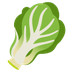
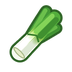
ふといながねぎの食材アイコンを自作アイコンへ変更
- tools/food-icons/make.py に draw_leek() を追加し、Noto Emoji の青菜(🥬)から自作の長ネギアイコンへ差し替え
- crates/pokesle-app/assets/food/largeleek.png を再生成
- crates/pokesle-app/assets/food/README.md のライセンス一覧に largeleek.png (MIT) を追記

diff --git a/tools/food-icons/make.py b/tools/food-icons/make.py
@@ -22,7 +22,7 @@ OUT = pathlib.Path(__file__).resolve().parents[2] / "crates" / "pokesle-app" / "
 
 # 本家の画像名 → Noto のコードポイント、または自作("draw:...")
 MAPPING = {
-    "largeleek.png": "1f96c",            # ふといながねぎ: 🥬
+    "largeleek.png": "draw:leek",         # ふといながねぎ: 自作
     "tastymushroom.png": "1f344_200d_1f7eb",  # あじわいキノコ: 🍄🟫
     "fancyegg.png": "white:1f95a",       # とくせんエッグ: 🥚 を白く塗り替え
     "softpotato.png": "1f954",           # ほっこりポテト: 🥔
@@ -242,6 +242,130 @@ def draw_nuts() -> Image.Image:
     return im.resize((128, 128), Image.LANCZOS)
 
 
+def draw_leek() -> Image.Image:
+    """ふといながねぎの自作アイコン(斜め配置、白い茎＋分かれた緑の葉)"""
+    im = Image.new("RGBA", (128 * S, 128 * S), (0, 0, 0, 0))
+    d = ImageDraw.Draw(im)
+    outline = (42, 94, 34)
+
+    ux, uy = 1.0 / math.sqrt(2.0), -1.0 / math.sqrt(2.0)  # 左下→右上
+    vx, vy = -1.0 / math.sqrt(2.0), -1.0 / math.sqrt(2.0)  # 左上(幅方向)
+    bx, by = 27.0, 101.0  # 根元
+
+    def pt(along: float, across: float) -> tuple[float, float]:
+        return bx + ux * along + vx * across, by + uy * along + vy * across
+
+    def stroke(fn, n, color_fn, r_fn):
+        for i in range(n + 1):
+            t = i / n
+            cx, cy = fn(t)
+            r = r_fn(t) * S
+            d.ellipse([cx * S - r, cy * S - r, cx * S + r, cy * S + r], fill=color_fn(t))
+
+    def lerp_rgb(c1, c2, k):
+        k = max(0.0, min(1.0, k))
+        return tuple(int(c1[i] + (c2[i] - c1[i]) * k) for i in range(3))
+
+    def main_pt(t):
+        return pt(12.0 + 86.0 * t, 0.0)
+
+    def main_r(t):
+        return 14.5 - 3.5 * t
+
+    def upper_leaf_pt(t):
+        return pt(42.0 + 54.0 * t, 3.0 + 15.0 * (t ** 0.9))
+
+    def upper_leaf_r(t):
+        return 9.5 - 2.2 * t
+
+    def lower_leaf_pt(t):
+        return pt(48.0 + 40.0 * t, -3.0 - 13.0 * (t ** 0.9))
+
+    def lower_leaf_r(t):
+        return 8.5 - 2.0 * t
+
+    # 1. 全体の縁取り
+    stroke(upper_leaf_pt, 80, lambda _: outline, lambda t: upper_leaf_r(t) + 3.8)
+    stroke(lower_leaf_pt, 70, lambda _: outline, lambda t: lower_leaf_r(t) + 3.8)
+    stroke(main_pt, 120, lambda _: outline, lambda t: main_r(t) + 3.8)
+
+    # 2. 奥側・手前側の分かれた葉
+    stroke(upper_leaf_pt, 80, lambda _: (68, 152, 54), upper_leaf_r)
+    stroke(
+        lambda t: (upper_leaf_pt(t)[0] + vx * 2.2, upper_leaf_pt(t)[1] + vy * 2.2),
+        60,
+        lambda _: (108, 192, 76),
+        lambda t: upper_leaf_r(t) * 0.48,
+    )
+
+    stroke(lower_leaf_pt, 70, lambda _: (64, 146, 50), lower_leaf_r)
+    stroke(
+        lambda t: (lower_leaf_pt(t)[0] + vx * 1.8, lower_leaf_pt(t)[1] + vy * 1.8),
+        50,
+        lambda _: (102, 184, 72),
+        lambda t: lower_leaf_r(t) * 0.45,
+    )
+
+    # 3. メインの茎〜葉
+    white = (248, 250, 240)
+    lime = (156, 210, 82)
+    green = (84, 174, 60)
+
+    def main_color(t):
+        if t < 0.36:
+            return white
+        if t < 0.54:
+            return lerp_rgb(white, lime, (t - 0.36) / 0.18)
+        if t < 0.68:
+            return lerp_rgb(lime, green, (t - 0.54) / 0.14)
+        return green
+
+    stroke(main_pt, 140, main_color, main_r)
+
+    # 影とハイライト
+    def shadow_color(t):
+        if t < 0.36:
+            return (222, 232, 214)
+        if t < 0.54:
+            return lerp_rgb((222, 232, 214), (122, 178, 64), (t - 0.36) / 0.18)
+        return (64, 144, 48)
+
+    stroke(
+        lambda t: pt(12.0 + 86.0 * t, -main_r(t) * 0.45),
+        100,
+        shadow_color,
+        lambda t: main_r(t) * 0.42,
+    )
+
+    def hi_color(t):
+        if t < 0.36:
+            return (255, 255, 255)
+        if t < 0.54:
+            return lerp_rgb((255, 255, 255), (188, 232, 112), (t - 0.36) / 0.18)
+        return (132, 212, 88)
+
+    stroke(
+        lambda t: pt(12.0 + 86.0 * t, main_r(t) * 0.42),
+        100,
+        hi_color,
+        lambda t: main_r(t) * 0.36,
+    )
+
+    # 葉の重なり(茎から葉へ分かれる V 字ライン)
+    v1 = [pt(44, 13), pt(54, 0), pt(48, -11)]
+    d.line([(x * S, y * S) for x, y in v1], fill=(56, 128, 44), width=3 * S)
+
+    # 根元の切り口
+    cut_pts = []
+    for i in range(36):
+        a = 2 * math.pi * i / 36
+        px, py = pt(10.0 + 4.5 * math.cos(a), 14.0 * math.sin(a))
+        cut_pts.append((px * S, py * S))
+    d.polygon(cut_pts, fill=(230, 236, 202), outline=(170, 186, 140), width=2 * S)
+
+    return im.resize((128, 128), Image.LANCZOS)
+
+
 def main():
     OUT.mkdir(parents=True, exist_ok=True)
     for name, src in MAPPING.items():
@@ -253,6 +377,8 @@ def main():
             im = draw_tail()
         elif src == "draw:nuts":
             im = draw_nuts()
+        elif src == "draw:leek":
+            im = draw_leek()
         elif src.startswith("cream:"):
             im = cream(noto(src.removeprefix("cream:")))
         elif src.startswith("hue:"):

diff --git a/crates/pokesle-app/assets/food/README.md b/crates/pokesle-app/assets/food/README.md
@@ -5,7 +5,7 @@
 
 | ファイル | 元 | ライセンス |
 |---|---|---|
-| `pureoil.png` / `slowpoketail.png` / `moomoomilk.png` / `nuts.png` | このリポジトリで描いたもの | MIT(このリポジトリの [LICENSE](../../../../LICENSE)) |
+| `pureoil.png` / `slowpoketail.png` / `moomoomilk.png` / `nuts.png` / `largeleek.png` | このリポジトリで描いたもの | MIT(このリポジトリの [LICENSE](../../../../LICENSE)) |
 | `fancyegg.png` | Noto Emoji 🥚 (U+1F95A) の色を白に変更 | OFL-1.1 |
 | `greengrasssoybeans.png` | Noto Emoji 🫘 (U+1FAD8) の色をクリーム色に変更 | OFL-1.1 |
 | 上記以外 | Noto Emoji をそのまま縮小 | OFL-1.1 |
